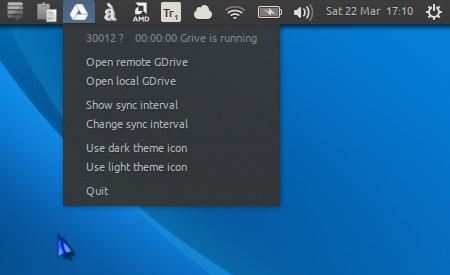
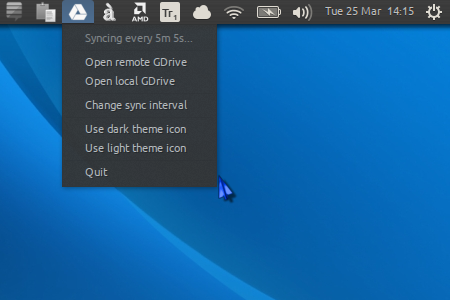
Fixed and enhanced INFO menu item

diff --git a/README.md b/README.md
@@ -9,8 +9,7 @@ Prerequisites
 ===============
 
 1. Install "grive", "python-appindicator" and "zenity" (e.g. using using DEB package or "setup-1-grive-indicator" script as below), AND
-2. Have "grive" authenticated with your chosen Google account by (creating and) changing directory (cd) to "~/Google Drive" and then entering the terminal command "grive -a" in that directory (e.g. using "setup-2-grive" script as below)
-before beginning to use this indicator applet.
+2. If using for the first time, have "grive" authenticated with your chosen Google account by (creating and) changing directory (cd) to "~/Google Drive" and then entering the terminal command "grive -a" in that directory (e.g. using "setup-2-grive" script as below).
 
 Installation
 ===============
@@ -19,6 +18,7 @@ Installation
 
 The "grive-indicator" should now be listed among startup applications and ready to start on next login.
 
+Caution: In case of non-DEB installation, be aware that copying a file under system directory "/etc/sudoers.d" might make it impossible to use the "sudo" command if there's something wrong with the file. Therefore, it might be a good idea to keep this folder open in a Root Nautilus or Terminal window so that you can remove this file to remedy such a problem. It might also be safer to extract and copy at least that file from the DEB package.
 
 Tests
 ===============
@@ -27,6 +27,10 @@ Successfully tested under: Ubuntu 13.10 (Unity), Linux Mint 16 (Cinnamon), Siduc
 ToDo
 ===============
 
-1. Use a switch as in UbuntuOne indicator instead of the current info item in the menu.
-2. Add a menu item to show a list of recently changed items (e.g. using a command like: inotifywait -r -e modify,attrib,moved_to,moved_from,move_self,create,delete,delete_self "$HOME/Google Drive")
-3. Create also a simple GUI for "grive" initial setup (attempts to include "setup-2-grive" script in DEB package under "postinst" failed).
+1. Add a list of recently changed items (e.g. using a command like: inotifywait -r -e modify,attrib,moved_to,moved_from,move_self,create,delete,delete_self "$HOME/Google Drive")
+2. Create a simple GUI for "grive" initial setup (attempts to include "setup-2-grive" script in DEB package under "postinst" failed).
+
+Changelog
+===============
+
+0.96: Fixed and enhanced INFO menu item to show Grive sync interval
